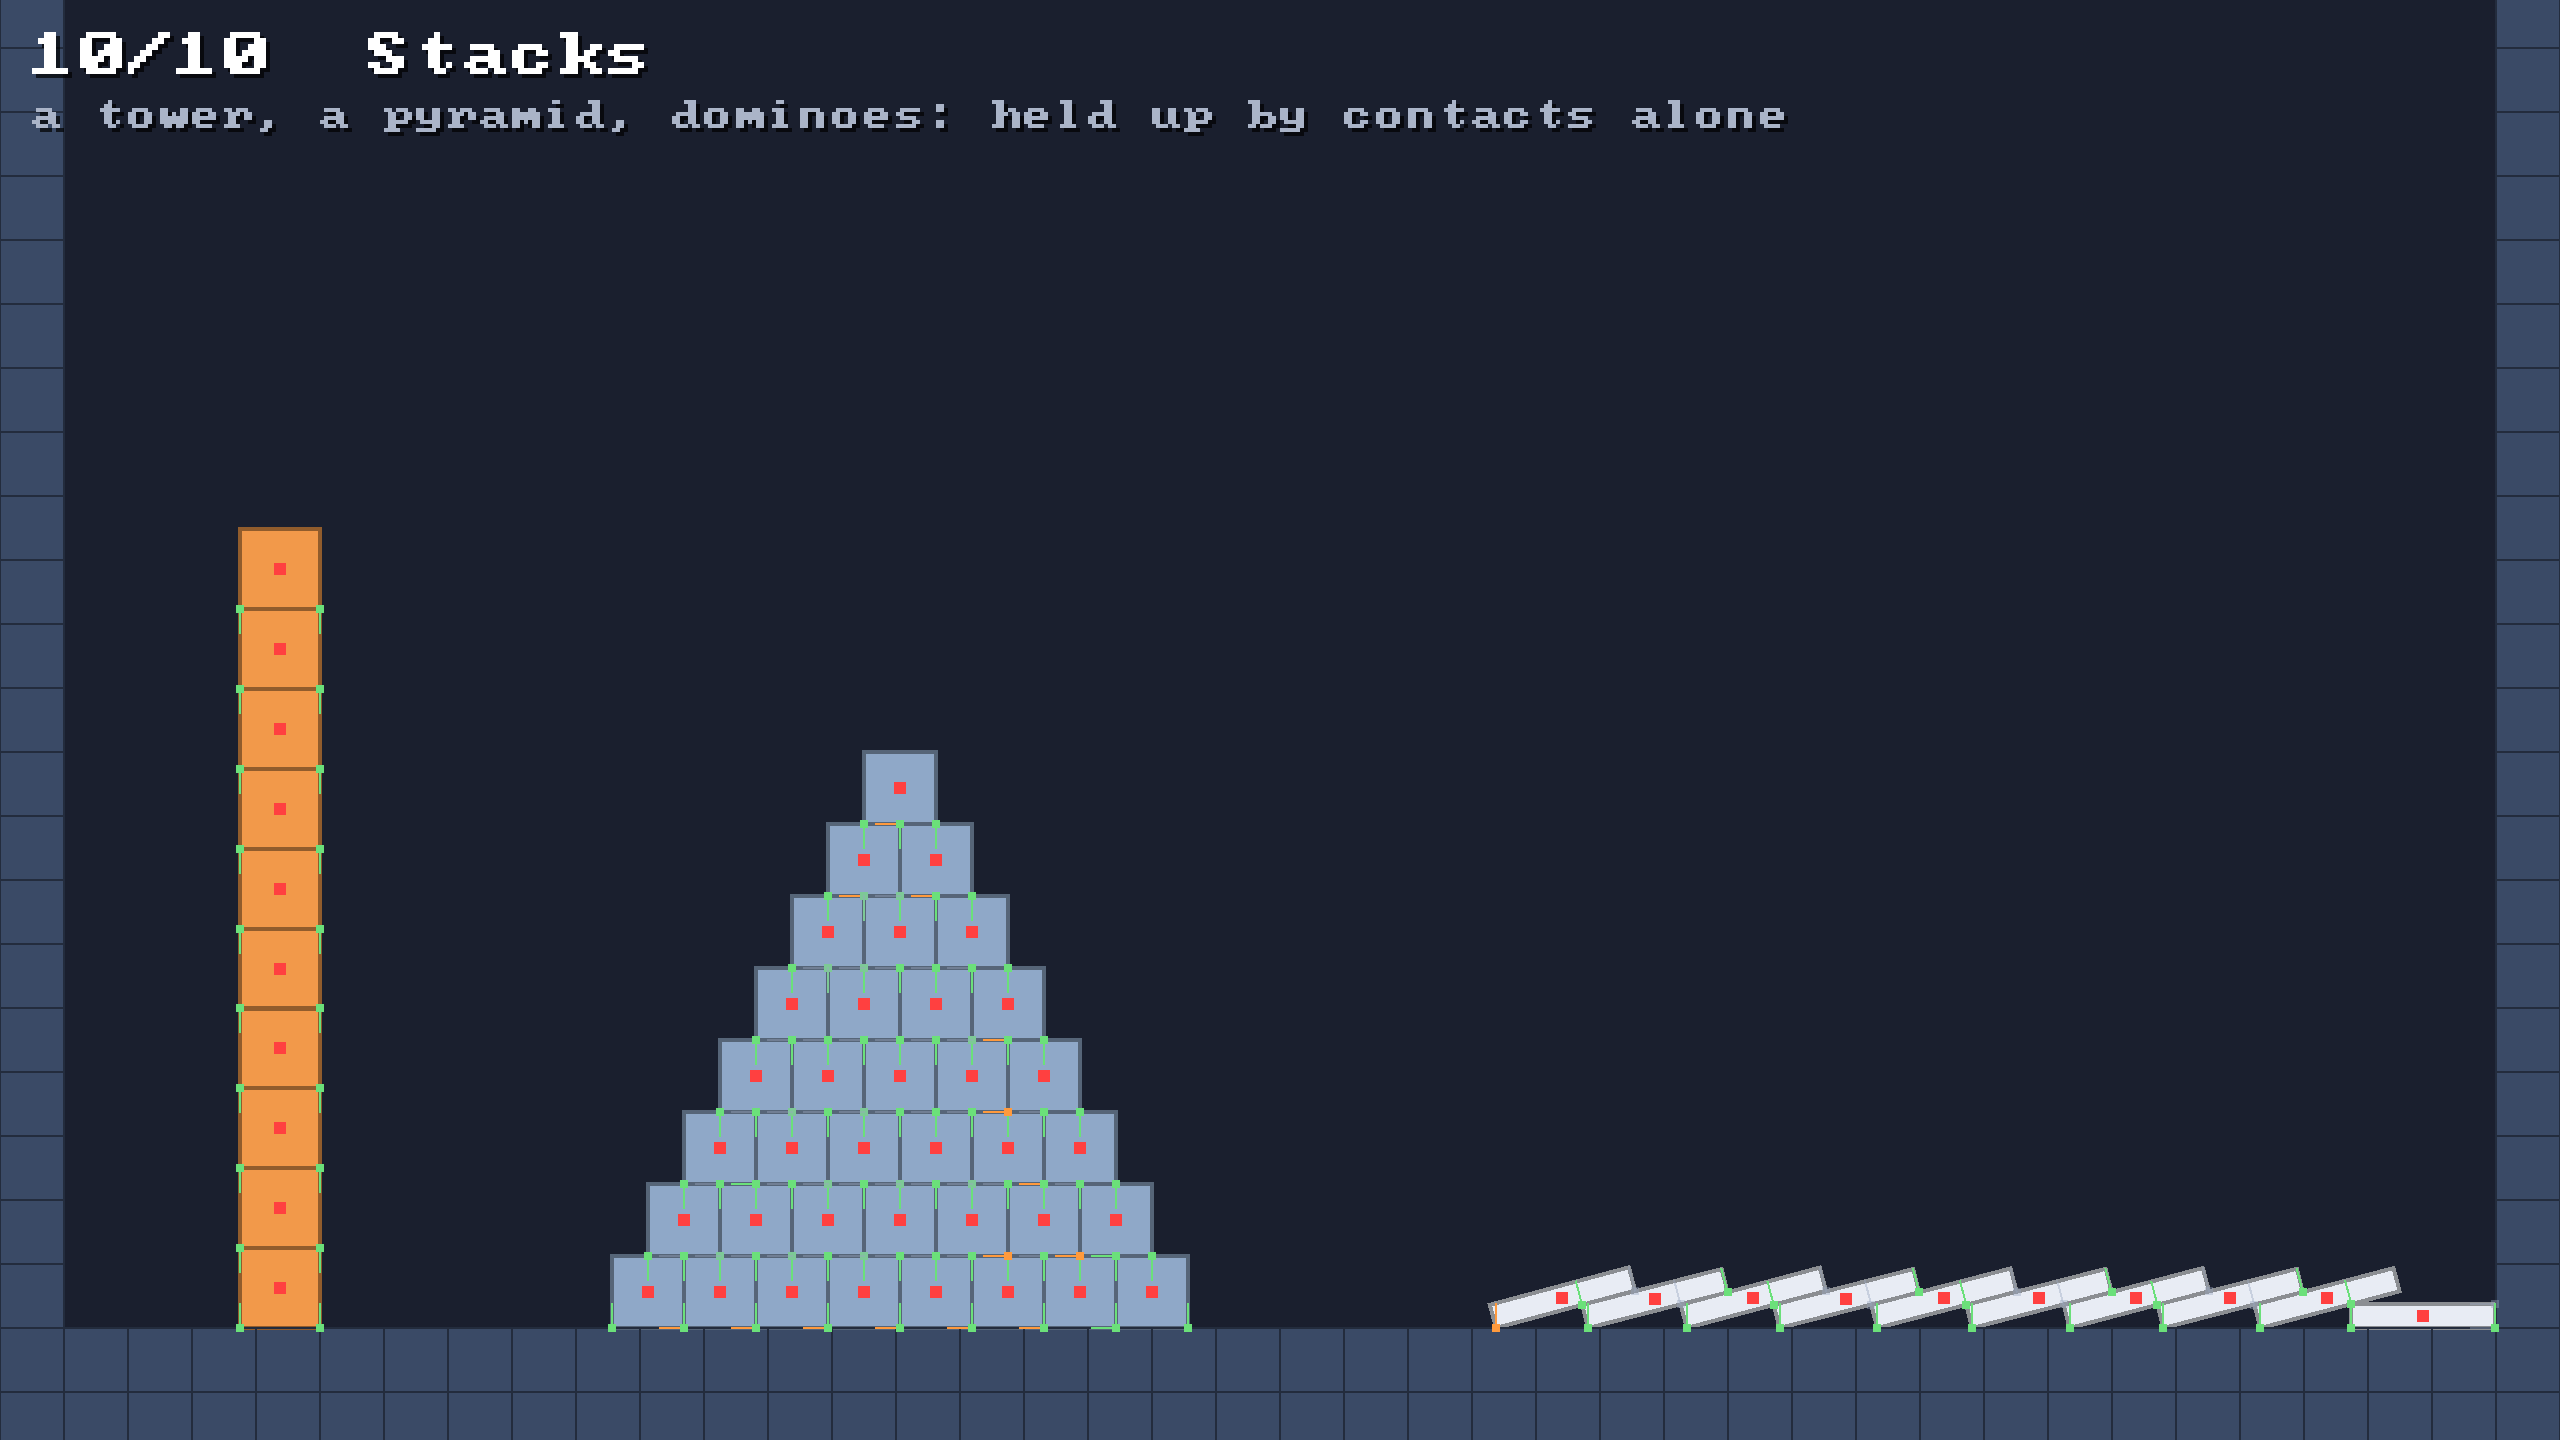
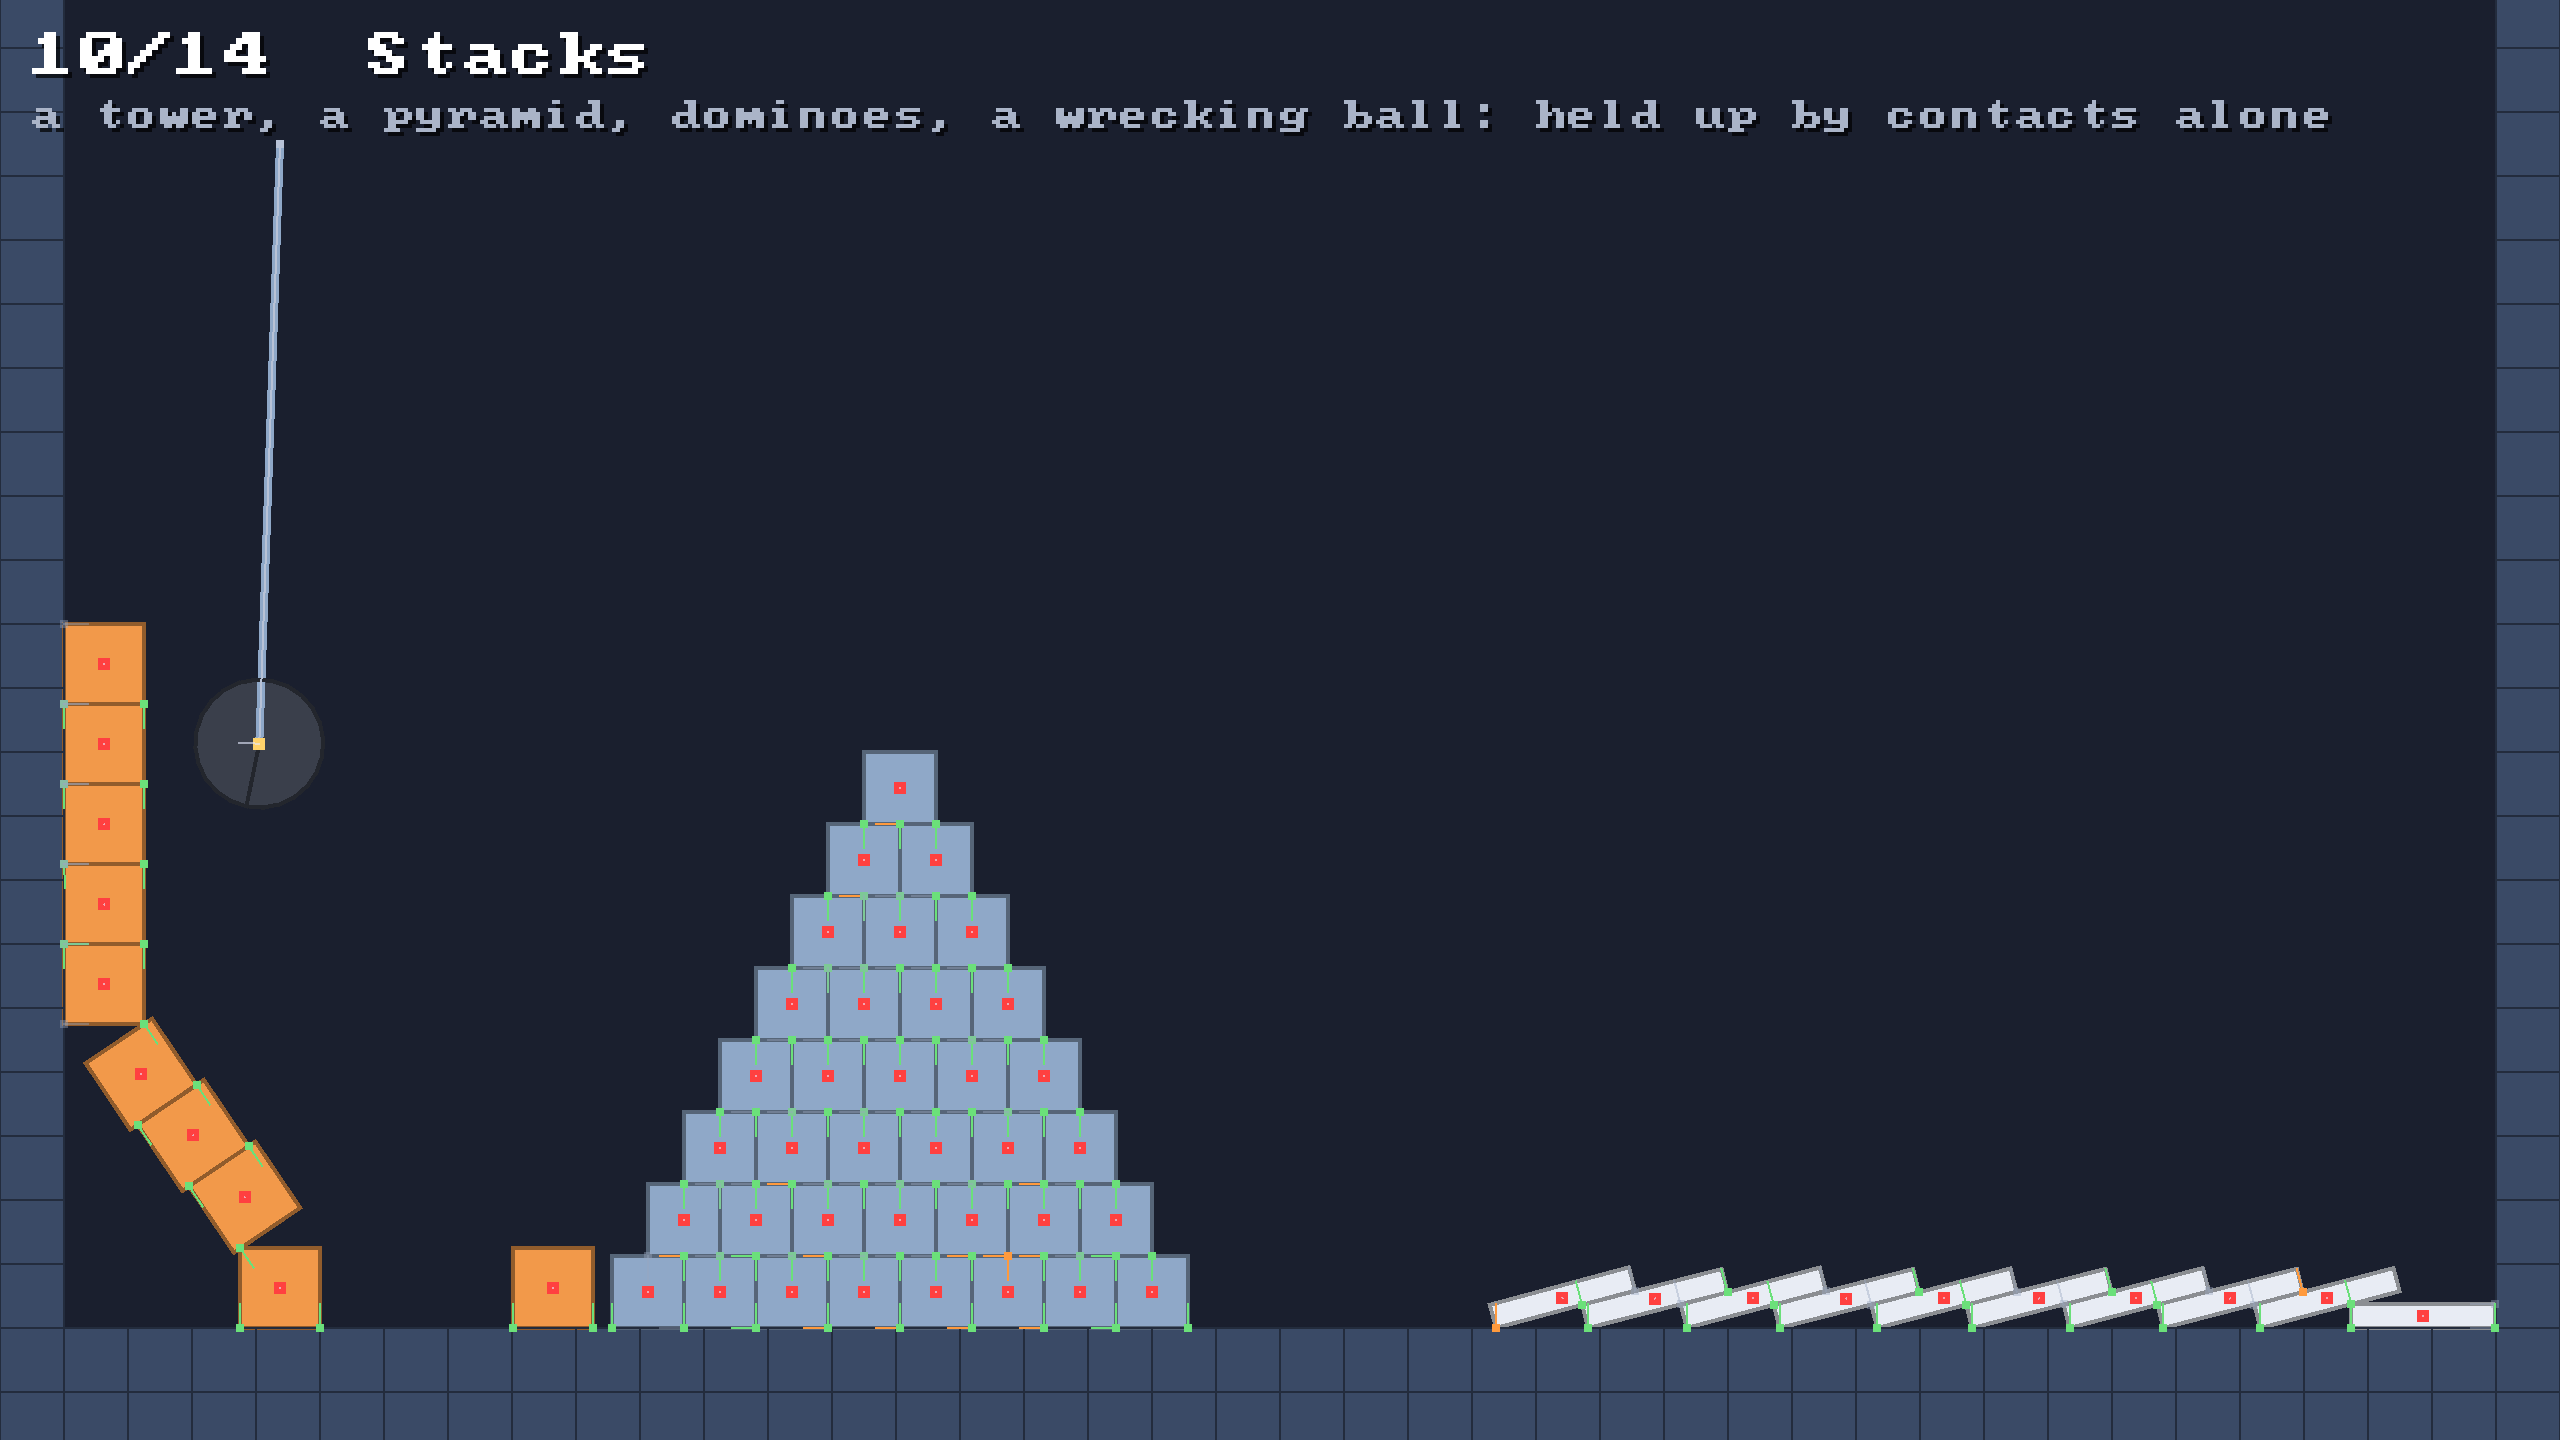
Give every new scene its GIF and every rigid-body page its scene
The Joints and Drum scenes get their GIFs, on the joints and coupling
pages and in the README. Stacks, Crates and Blobs and Machines grew in
#29, so their GIFs are taken again, and so is the debug view of Machines.
Each rigid-body page's Try it now links the scene's source, and the SAT
page no longer says contacts are still to come: in Tumble nothing is
pushed because the paddle is kinematic and the bar static.

Closes #30

diff --git a/README.md b/README.md
@@ -125,7 +125,7 @@ a row of dominoes topples one after another. Two contact points under each box k
 friction keeps it from sliding off the one below. Then a wrecking ball swings in and knocks the
 tower's top off. Right click to drop a box on them. 🎯
 
-<img src="docs/img/stacking.gif" alt="a tower and a pyramid of boxes standing while a row of dominoes topples" width="100%">
+<img src="docs/img/stacking.gif" alt="a tower and a pyramid of boxes standing while a row of dominoes topples, then a wrecking ball knocking the tower down" width="100%">
 
 ### 11 · 🤝 Crates and Blobs
 
@@ -133,7 +133,7 @@ tower's top off. Right click to drop a box on them. 🎯
 tower of crates and knocks it down. A heavy crate on a rope swings through three blobs and sweeps
 them away. A crate bounces on a trampoline of round particles. Each side moves the other. The 11th scene, so press `→` to reach it. 💥
 
-<img src="docs/img/coupling.gif" alt="a crate on a blob, a blob knocking down a tower of crates, a crate on a rope swinging through blobs" width="100%">
+<img src="docs/img/coupling.gif" alt="a crate on a blob, a blob knocking down a tower of crates, a crate bouncing on a trampoline, a crate on a rope swinging through blobs" width="100%">
 
 ### 12 · 🔩 Machines
 
@@ -142,7 +142,7 @@ back and forth over a bump on motorised wheels, each on a sprung strut. A welded
 crates and breaks at the fourth. A windmill turns on its motor. A lift on a slider carries a crate
 down and up, and a crate dropped on a seesaw throws a ball into the air. Press `→` to reach it, and `F1` twice to see the joints. 🏗
 
-<img src="docs/img/joints.gif" alt="a double pendulum, a car on motorised wheels, a welded shelf breaking under crates, a lift on a slider" width="100%">
+<img src="docs/img/joints.gif" alt="a double pendulum, a car on sprung motorised wheels, a welded shelf breaking under crates, a windmill, a lift on a slider, a seesaw" width="100%">
 
 ### 13 · ⚖ Joints
 
@@ -151,11 +151,15 @@ passed through the middle three to the last. A chain bridge of fourteen hinged p
 of ten bodies dropped on it, its elbows and knees bending only one way. Right click for another
 ragdoll. 🤸
 
+<img src="docs/img/cradle-and-bridge.gif" alt="a Newton's cradle passing its swing from the first ball to the last, and a ragdoll dropped on a chain bridge" width="100%">
+
 ### 14 · 🥁 Drum
 
 **Everything in one turning drum.** Blobs, crates and 240 grains of sand, carried up the side of a
 kinematic drum by its paddles until they tumble back down, pushing on each other all the way. Right
 click to drop a crate in. 🌀
+
+<img src="docs/img/drum.gif" alt="a turning drum carrying blobs, crates and sand up its side until they tumble back down" width="50%">
 
 Every scene's step, timed without a window on the release build:
 `SANDBOX_BENCH=600 ./gradlew :demo:runRelease`. Sand, the heaviest, takes about 6 ms a step.

diff --git a/docs/explained/joints.md b/docs/explained/joints.md
@@ -2,7 +2,7 @@
 
 ⚡ **Pin two bodies together at a point, along a line, or solid, and let a motor turn them: cars, lifts, pendulums.**
 
-<img src="../img/joints.gif" alt="a double pendulum swinging, a car driving on motorised wheels, crates set on a welded shelf until it breaks, and a lift going down and up" width="100%">
+<img src="../img/joints.gif" alt="a double pendulum swinging, a car on sprung, motorised wheels driving over a bump, crates set on a welded shelf until it breaks, a windmill turning, a lift going down and up, and a seesaw throwing a ball" width="100%">
 
 ## 🧠 How it works
 
@@ -89,10 +89,14 @@ pulled harder than its `breakForce` is removed.
 
 ## 🧪 Try it
 
-`./gradlew :demo:run`, press `→` until **Machines**, the 12th scene, then `F1` twice for the joints:
+`./gradlew :demo:run`, press `→` until **Machines**, the 12th scene ([`Machines.kt`](../../demo/src/nativeMain/kotlin/klyph/physics/demo/Machines.kt)), then `F1` twice for the joints:
 a double pendulum, a car on motorised wheels with sprung struts, a shelf that bears three crates and
 breaks at the fourth, a windmill, a lift on a slider and a seesaw. Right click to drop crates on the
-lift. 🏗 Press `→` once more for **Joints**: a Newton's cradle, and a ragdoll dropped on a chain
-bridge.
+lift. 🏗 Press `→` once more for **Joints** ([`JointsScene.kt`](../../demo/src/nativeMain/kotlin/klyph/physics/demo/JointsScene.kt)): a Newton's
+cradle, and a ragdoll dropped on a chain bridge, its limits drawn as wedges.
+
+<img src="../img/cradle-and-bridge.gif" alt="a Newton's cradle passing its swing from the first ball to the last, and a ragdoll dropped on a chain bridge of hinged planks" width="100%">
 
 📸 `scripts/capture.sh 12 joints --from 0 --to 7.5 --clean --view 2 --width 640`
+
+📸 `scripts/capture.sh 13 cradle-and-bridge --from 0 --to 5 --clean --view 2 --width 640`

diff --git a/docs/explained/coupling.md b/docs/explained/coupling.md
@@ -2,7 +2,7 @@
 
 ⚡ **A particle that touches a rigid body pushes it back, at that point: crates squash blobs, blobs knock crates over.**
 
-<img src="../img/coupling.gif" alt="a crate resting on a big blob, a pink blob knocking down a tower of crates, and a heavy crate on a rope swinging through three blobs" width="100%">
+<img src="../img/coupling.gif" alt="a crate resting on a big blob, a pink blob knocking down a tower of crates, a crate bouncing on a trampoline of round particles, and a heavy crate on a rope swinging through three blobs" width="100%">
 
 ## 🧠 How it works
 
@@ -85,9 +85,13 @@ particle: a rope ties a crate to a hook. A particle doesn't bump into the body i
 
 ## 🧪 Try it
 
-`./gradlew :demo:run`, press `→` until **Crates and Blobs**, the 11th scene: a crate sits on a big
+`./gradlew :demo:run`, press `→` until **Crates and Blobs**, the 11th scene ([`CratesAndBlobs.kt`](../../demo/src/nativeMain/kotlin/klyph/physics/demo/CratesAndBlobs.kt)): a crate sits on a big
 blob, a blob knocks a tower down, a crate on a rope swings through three more, and a crate bounces
 on a trampoline of round particles. Right click to drop blobs on the crates. Grab a crate and squash
-a blob with it. 🎯 Press `→` twice more for **Drum**: blobs, crates and sand tumbling together.
+a blob with it. 🎯 Press `→` three more times for **Drum** ([`Drum.kt`](../../demo/src/nativeMain/kotlin/klyph/physics/demo/Drum.kt)): blobs, crates and sand tumbling together in one kinematic body.
 
-📸 `scripts/capture.sh 11 coupling --from 0 --to 3 --clean`
+<img src="../img/drum.gif" alt="a turning drum carrying blobs, crates and sand up its side until they tumble back down" width="50%">
+
+📸 `scripts/capture.sh 11 coupling --from 0 --to 3.5 --clean --width 640`
+
+📸 `scripts/capture.sh 14 drum --from 1.5 --to 5.5 --clean --crop 0.25,0.1,0.5,0.9 --width 320`

diff --git a/docs/explained/stacking.md b/docs/explained/stacking.md
@@ -2,7 +2,7 @@
 
 ⚡ **Push overlapping bodies apart at their contact points, hold them in place sideways while friction can, and give back the bounce afterwards.**
 
-<img src="../img/stacking.gif" alt="a tower of ten boxes and a pyramid standing still while a row of dominoes topples one after another, every contact point shown green" width="100%">
+<img src="../img/stacking.gif" alt="a tower of ten boxes and a pyramid standing still while a row of dominoes topples one after another, every contact point shown green, until a wrecking ball swings into the tower" width="100%">
 
 ## 🧠 How it works
 
@@ -104,8 +104,8 @@ geometric mean of the two, restitution the larger.
 
 ## 🧪 Try it
 
-`./gradlew :demo:run`, press `0` for **Stacks**, then `F1` three times to see every contact: the
+`./gradlew :demo:run`, press `0` for **Stacks** ([`Stacks.kt`](../../demo/src/nativeMain/kotlin/klyph/physics/demo/Stacks.kt)), then `F1` three times to see every contact: the
 tower and the pyramid stand, the dominoes fall one by one, and at 2.5 s a wrecking ball swings into
 the tower. Right click to drop a box on them. 🎯
 
-📸 `scripts/capture.sh 10 stacking --from 0.5 --to 4 --view 3 --clean`
+📸 `scripts/capture.sh 10 stacking --from 0.5 --to 4.5 --view 3 --clean --width 640`

diff --git a/docs/explained/sat.md b/docs/explained/sat.md
@@ -85,8 +85,10 @@ flickering between two.
 
 ## 🧪 Try it
 
-`./gradlew :demo:run`, press `9` for **Tumble**, then `F1`: the paddle on the right sweeps through
-the bar, and the contact points show where they overlap. One where a corner pokes in, two where it
-lies flat. Nothing pushes them apart yet: that's the contacts' job, next.
+`./gradlew :demo:run`, press `9` for **Tumble** ([`Tumble.kt`](../../demo/src/nativeMain/kotlin/klyph/physics/demo/Tumble.kt)), then `F1`: the
+paddle on the right sweeps through the bar, and the contact points show where they overlap. One
+where a corner pokes in, two where it lies flat. Neither is pushed: the paddle is kinematic and the
+bar static, so both go only where they're told. For contacts that push, see
+[🧱 stacking](stacking.md).
 
 📸 `scripts/capture.sh 9 sat --from 0.5 --to 1.5 --slow --view 1 --clean --crop 0.68,0.45,0.3,0.4 --width 600`

diff --git a/docs/explained/shapes.md b/docs/explained/shapes.md
@@ -85,7 +85,7 @@ At the default density, a 32-unit crate weighs about 50, about as much as a blob
 
 ## 🧪 Try it
 
-`./gradlew :demo:run`, press `9` for **Tumble**: five shapes tossed with the same twist. The dot on
+`./gradlew :demo:run`, press `9` for **Tumble** ([`Tumble.kt`](../../demo/src/nativeMain/kotlin/klyph/physics/demo/Tumble.kt)): five shapes tossed with the same twist. The dot on
 each is its centre of mass. Grab one with the mouse: it hangs from the point you took it by.
 
 📸 `scripts/capture.sh 9 shapes --from 0 --to 3 --clean --crop 0,0.1,0.75,0.9`

diff --git a/docs/explained/rigid-bodies.md b/docs/explained/rigid-bodies.md
@@ -79,7 +79,7 @@ shapes with different spins and they fly the same arc. 🎯
 
 ## 🧪 Try it
 
-`./gradlew :demo:run`, press `9` for **Tumble**: five shapes tossed up with different spins come
+`./gradlew :demo:run`, press `9` for **Tumble** ([`Tumble.kt`](../../demo/src/nativeMain/kotlin/klyph/physics/demo/Tumble.kt)): five shapes tossed up with different spins come
 down together, and the paddle on the right goes round its circle exactly where it's told.
 
 📸 `scripts/capture.sh 9 rigid-bodies --from 0 --to 4 --clean`
